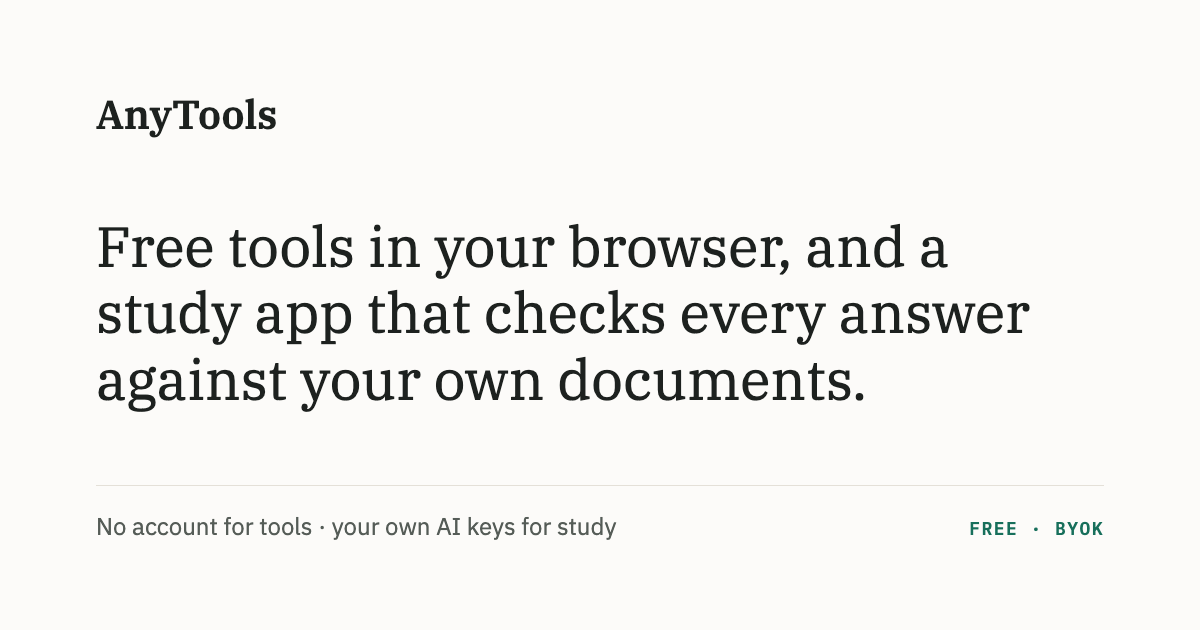
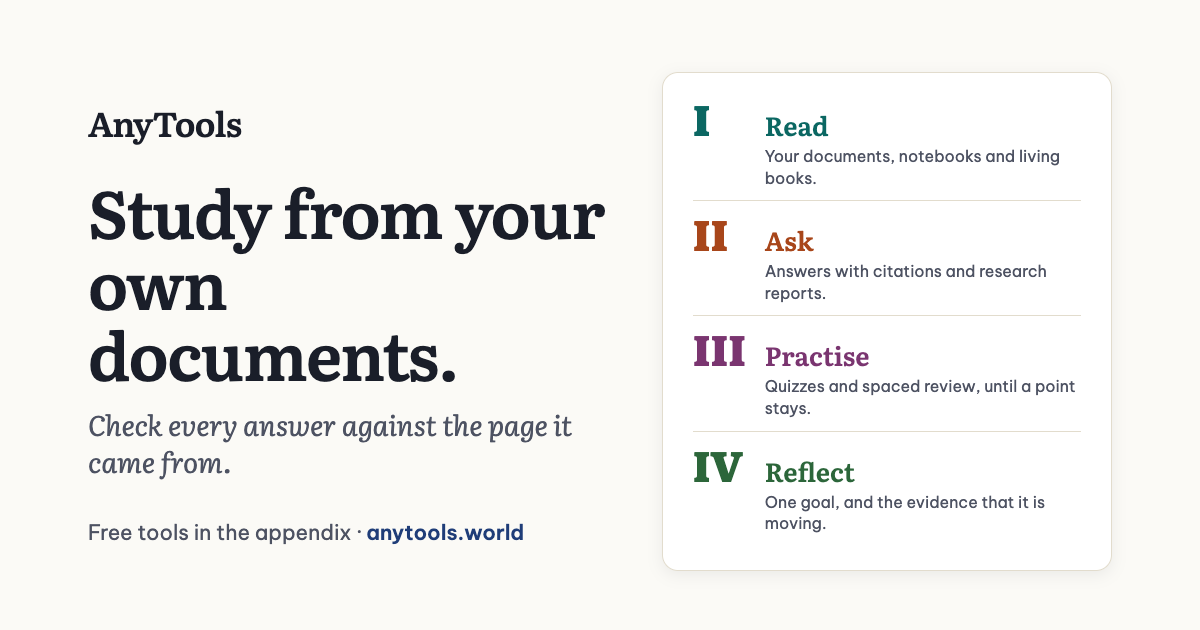
feat(web): the share card in the textbook world, versioned past the caches

diff --git a/deploy/og/og.html b/deploy/og/og.html
@@ -1,16 +1,31 @@
-<!-- Source of ui/web/public/og.png (1200x630). Regenerate: open in Chromium at a 1200x630 viewport and screenshot. Colours are the light-theme tokens from ui/web/app/tokens.css. -->
+<!-- Source of ui/web/public/og.png (1200x630). Regenerate: open in Chromium at a 1200x630 viewport and screenshot, then bump OG_VERSION in ui/web/app/lib/tools/seo.ts so caches fetch the new card. Colours are the light-theme tokens from ui/web/app/tokens.css (the textbook world, 2026-10-19). -->
 <!doctype html><html><head><meta charset="utf-8">
-<link href="https://fonts.googleapis.com/css2?family=IBM+Plex+Serif:wght@400;600&family=IBM+Plex+Sans:wght@400;500&family=IBM+Plex+Mono:wght@600&display=block" rel="stylesheet">
+<link href="https://fonts.googleapis.com/css2?family=Literata:ital,wght@0,600;0,800;1,400&family=Be+Vietnam+Pro:wght@400;600&display=block" rel="stylesheet">
 <style>
-html,body{margin:0;width:1200px;height:630px;background:#fcfbf9;color:#1d211f}
-.wrap{box-sizing:border-box;width:1200px;height:630px;padding:88px 96px;display:flex;flex-direction:column;justify-content:space-between}
-.mark{font:600 40px 'IBM Plex Serif'}
-h1{font:400 56px/1.18 'IBM Plex Serif';margin:0;max-width:960px}
-.row{display:flex;justify-content:space-between;align-items:baseline;border-top:1px solid #e4e0d8;padding-top:24px}
-.k{font:600 18px 'IBM Plex Mono';letter-spacing:.08em;text-transform:uppercase;color:#176f5b}
-.s{font:400 24px 'IBM Plex Sans';color:#555c57}
+html,body{margin:0;width:1200px;height:630px;background:#fbfaf6;color:#1a1e29}
+.wrap{box-sizing:border-box;width:1200px;height:630px;padding:72px 88px;display:grid;grid-template-columns:1.15fr 1fr;gap:56px;align-items:center}
+.mark{font:600 34px 'Literata';letter-spacing:-.02em}
+h1{font:600 66px/1.08 'Literata';letter-spacing:-.02em;margin:28px 0 0}
+.sub{font:italic 400 28px/1.3 'Literata';color:#4d5262;margin-top:18px}
+.foot{margin-top:40px;font:400 21px 'Be Vietnam Pro';color:#4d5262}
+.foot b{font-weight:600;color:#1f3d78}
+.book{background:#fff;border:1px solid #e2dccd;border-radius:16px;box-shadow:0 4px 16px rgba(26,30,41,.08);padding:24px 30px}
+.row{display:grid;grid-template-columns:72px 1fr;align-items:baseline;padding:11px 0;border-top:1px solid #e2dccd}
+.row:first-child{border-top:0;padding-top:0}
+.n{font:800 42px/1 'Literata'}
+.t{font:600 26px 'Literata'}
+.d{font:400 16px/1.35 'Be Vietnam Pro';color:#4d5262;margin-top:2px}
 </style></head><body><div class="wrap">
+<div>
 <div class="mark">AnyTools</div>
-<h1>Free tools in your browser, and a study app that checks every answer against your own documents.</h1>
-<div class="row"><span class="s">No account for tools · your own AI keys for study</span><span class="k">Free · BYOK</span></div>
+<h1>Study from your own documents.</h1>
+<div class="sub">Check every answer against the page it came from.</div>
+<div class="foot">Free tools in the appendix · <b>anytools.world</b></div>
+</div>
+<div class="book">
+<div class="row"><span class="n" style="color:#0b6762">I</span><div><div class="t" style="color:#0b6762">Read</div><div class="d">Your documents, notebooks and living books.</div></div></div>
+<div class="row"><span class="n" style="color:#a8461a">II</span><div><div class="t" style="color:#a8461a">Ask</div><div class="d">Answers with citations and research reports.</div></div></div>
+<div class="row"><span class="n" style="color:#7a3570">III</span><div><div class="t" style="color:#7a3570">Practise</div><div class="d">Quizzes and spaced review, until a point stays.</div></div></div>
+<div class="row"><span class="n" style="color:#2c663a">IV</span><div><div class="t" style="color:#2c663a">Reflect</div><div class="d">One goal, and the evidence that it is moving.</div></div></div>
+</div>
 </div></body></html>

diff --git a/ui/web/app/test/landing.test.ts b/ui/web/app/test/landing.test.ts
@@ -5,6 +5,7 @@
  * it and about nothing else.
  */
 import { beforeEach, describe, expect, it, vi } from "vitest";
+import { OG_VERSION } from "~/lib/tools/seo";
 
 vi.mock("~/lib/env.server", () => ({ APP_URL: "https://learn.example.com", API_BASE: "", API_TOKEN: "" }));
 const getUserId = vi.fn();
@@ -32,7 +33,7 @@ describe("landing", () => {
     const data = await landing.loader(args);
     const tags = landing.meta({ data } as unknown as Parameters<typeof landing.meta>[0]) as Record<string, unknown>[];
     expect(tags).toContainEqual({ tagName: "link", rel: "canonical", href: "https://learn.example.com/" });
-    expect(tags).toContainEqual({ property: "og:image", content: "https://learn.example.com/og.png" });
+    expect(tags).toContainEqual({ property: "og:image", content: `https://learn.example.com/og.png?v=${OG_VERSION}` });
     const ld = tags.find((t) => "script:ld+json" in t)?.["script:ld+json"] as Record<string, unknown>;
     expect(ld["@type"]).toBe("SoftwareApplication");
     expect(tags.some((t) => t.name === "robots")).toBe(false);

diff --git a/ui/web/app/routes/public.guide.tsx b/ui/web/app/routes/public.guide.tsx
@@ -15,7 +15,7 @@ import { localizeArticleLinks } from "~/lib/tools/links.server";
 import { pagesMessages } from "~/lib/tools/messages.server";
 import { guideLocales, loadGuide } from "~/lib/tools/pages.server";
 import { notFound, pagesT, publicLocale } from "~/lib/tools/route.server";
-import { alternateLinks, breadcrumbSchema, clampMetaDescription, MAX_TITLE_CHARS, pageMeta } from "~/lib/tools/seo";
+import { alternateLinks, breadcrumbSchema, clampMetaDescription, MAX_TITLE_CHARS, pageMeta, ogImage } from "~/lib/tools/seo";
 
 /** Guide titles are long; the brand suffix goes where it would push past what Google shows. */
 function guideTitle(title: string): string {
@@ -54,7 +54,7 @@ export function meta({ data }: Route.MetaArgs) {
       title: guideTitle(data.title),
       description: clampMetaDescription(data.description),
       url,
-      image: `${origin}/og.png`,
+      image: ogImage(origin),
       locale,
       indexable: true,
       alternateLocales: data.locales,

diff --git a/ui/web/app/test/tools-public-routes.test.ts b/ui/web/app/test/tools-public-routes.test.ts
@@ -10,6 +10,7 @@ import { mkdtempSync, mkdirSync, rmSync, symlinkSync, writeFileSync } from "node
 import { tmpdir } from "node:os";
 import { join } from "node:path";
 import { afterAll, describe, expect, it, vi } from "vitest";
+import { OG_VERSION } from "~/lib/tools/seo";
 
 vi.mock("~/lib/env.server", () => ({ APP_URL: "https://anytools.example", API_BASE: "", API_TOKEN: "" }));
 
@@ -164,7 +165,7 @@ describe("tool pages", () => {
       "pt https://anytools.example/pt/time-date/timezone-converter",
       "x-default https://anytools.example/en/time-date/timezone-converter",
     ]);
-    expect(content(tags, "property", "og:image")).toBe(`${self}/og.png`);
+    expect(content(tags, "property", "og:image")).toBe(`${self}/og.png?v=${OG_VERSION}`);
     expect(content(tags, "property", "og:locale")).toBe("vi");
     expect(content(tags, "name", "robots")).toMatch(/^index/);
     expect(ldTypes(tags)).toEqual(["SoftwareApplication", "BreadcrumbList", "FAQPage"]);

diff --git a/ui/web/app/routes/public.cluster.tsx b/ui/web/app/routes/public.cluster.tsx
@@ -12,7 +12,7 @@ import { APP_URL } from "~/lib/env.server";
 import { catalogEntries, isPopulatedCluster } from "~/lib/tools/catalog";
 import { clusterIsIndexable } from "~/lib/tools/content.server";
 import { notFound, publicLocale, toolsT } from "~/lib/tools/route.server";
-import { alternateLinks, breadcrumbSchema, buildToolTitle, clampMetaDescription, clusterPageNoun, pageMeta } from "~/lib/tools/seo";
+import { alternateLinks, breadcrumbSchema, buildToolTitle, clampMetaDescription, clusterPageNoun, pageMeta, ogImage } from "~/lib/tools/seo";
 
 export function loader({ params }: Route.LoaderArgs) {
   const locale = publicLocale(params);
@@ -51,7 +51,7 @@ export function meta({ data }: Route.MetaArgs) {
       title: seo.title,
       description: seo.description,
       url: `${origin}${path(locale)}`,
-      image: `${origin}/og.png`,
+      image: ogImage(origin),
       locale,
       indexable: data.indexable,
       alternateLocales: data.alternates,

diff --git a/ui/web/app/routes/public.page.tsx b/ui/web/app/routes/public.page.tsx
@@ -15,7 +15,7 @@ import { addPagesBundle } from "~/lib/tools/i18n";
 import { pagesMessages } from "~/lib/tools/messages.server";
 import { isStaticPage, loadPage } from "~/lib/tools/pages.server";
 import { notFound, publicLocale } from "~/lib/tools/route.server";
-import { alternateLinks, clampMetaDescription, MAX_TITLE_CHARS, pageMeta } from "~/lib/tools/seo";
+import { alternateLinks, clampMetaDescription, MAX_TITLE_CHARS, pageMeta, ogImage } from "~/lib/tools/seo";
 
 export function loader({ request, params }: Route.LoaderArgs) {
   const locale = publicLocale(params);
@@ -37,7 +37,7 @@ export function meta({ data }: Route.MetaArgs) {
       title: full.length <= MAX_TITLE_CHARS ? full : data.title,
       description: clampMetaDescription(data.description),
       url: `${origin}${path(locale)}`,
-      image: `${origin}/og.png`,
+      image: ogImage(origin),
       locale,
       indexable: true,
       alternateLocales: publicLngs,

diff --git a/ui/web/app/routes/landing.tsx b/ui/web/app/routes/landing.tsx
@@ -26,6 +26,7 @@ import { PARTS } from "~/lib/parts";
 import { SOURCE_URL } from "~/components/tools-site/public-shell";
 import { catalogEntries, CLUSTER_ORDER } from "~/lib/tools/catalog";
 import { pickPublicLocale } from "./tools";
+import { ogImage } from "~/lib/tools/seo";
 
 export async function loader({ request }: Route.LoaderArgs) {
   if (await getUserId(request)) throw redirect("/home");
@@ -63,7 +64,7 @@ export function meta({ data }: Route.MetaArgs) {
     { property: "og:title", content: TITLE },
     { property: "og:description", content: DESCRIPTION },
     { property: "og:url", content: `${url}/` },
-    { property: "og:image", content: `${url}/og.png` },
+    { property: "og:image", content: ogImage(url) },
     { property: "og:image:width", content: "1200" },
     { property: "og:image:height", content: "630" },
     { name: "twitter:card", content: "summary_large_image" },

diff --git a/ui/web/app/routes/public.guides.tsx b/ui/web/app/routes/public.guides.tsx
@@ -12,7 +12,7 @@ import { addPagesBundle } from "~/lib/tools/i18n";
 import { pagesMessages } from "~/lib/tools/messages.server";
 import { listGuides } from "~/lib/tools/pages.server";
 import { pagesT, publicLocale } from "~/lib/tools/route.server";
-import { alternateLinks, breadcrumbSchema, clampMetaDescription, pageMeta } from "~/lib/tools/seo";
+import { alternateLinks, breadcrumbSchema, clampMetaDescription, pageMeta, ogImage } from "~/lib/tools/seo";
 
 export function loader({ params }: Route.LoaderArgs) {
   const locale = publicLocale(params);
@@ -35,7 +35,7 @@ export function meta({ data }: Route.MetaArgs) {
       title: seo.title,
       description: seo.description,
       url: `${origin}${path(locale)}`,
-      image: `${origin}/og.png`,
+      image: ogImage(origin),
       locale,
       indexable: true,
       alternateLocales: publicLngs,

diff --git a/ui/web/app/routes/public.anyprofile.tsx b/ui/web/app/routes/public.anyprofile.tsx
@@ -17,7 +17,7 @@ import { ANYPROFILE_RELEASES, ANYPROFILE_REPO, downloadsFor, latestRelease } fro
 import { addPagesBundle } from "~/lib/tools/i18n";
 import { pagesMessages } from "~/lib/tools/messages.server";
 import { pagesT, publicLocale } from "~/lib/tools/route.server";
-import { alternateLinks, clampMetaDescription, pageMeta } from "~/lib/tools/seo";
+import { alternateLinks, clampMetaDescription, pageMeta, ogImage } from "~/lib/tools/seo";
 
 export async function loader({ params }: Route.LoaderArgs) {
   const locale = publicLocale(params);
@@ -43,7 +43,7 @@ export function meta({ data }: Route.MetaArgs) {
       title: seo.title,
       description: seo.description,
       url: `${origin}${path(locale)}`,
-      image: `${origin}/og.png`,
+      image: ogImage(origin),
       locale,
       indexable: true,
       alternateLocales: publicLngs,

diff --git a/ui/web/app/routes/public.home.tsx b/ui/web/app/routes/public.home.tsx
@@ -12,7 +12,7 @@ import { publicLngs } from "~/lib/i18n";
 import { APP_URL } from "~/lib/env.server";
 import { catalogEntries, POPULATED_CLUSTERS, SORTS, type Sort } from "~/lib/tools/catalog";
 import { publicLocale, toolsT } from "~/lib/tools/route.server";
-import { alternateLinks, pageMeta } from "~/lib/tools/seo";
+import { alternateLinks, pageMeta, ogImage } from "~/lib/tools/seo";
 
 /** The page has its own search box; the header leaves its one out. */
 export const handle = { ownSearch: true };
@@ -53,7 +53,7 @@ export function meta({ data }: Route.MetaArgs) {
       title: seo.title,
       description: seo.description,
       url: `${origin}${path(locale)}`,
-      image: `${origin}/og.png`,
+      image: ogImage(origin),
       locale,
       indexable: true,
       alternateLocales: publicLngs,

diff --git a/ui/web/app/lib/tools/seo.ts b/ui/web/app/lib/tools/seo.ts
@@ -10,6 +10,18 @@ import type { PublicLng } from "~/lib/i18n";
 
 /** Google cuts titles around 60 characters, and what it cuts is the brand. */
 export const MAX_TITLE_CHARS = 60;
+
+/**
+ * Bumped whenever the share cards change look. Cloudflare and the social
+ * networks cache an og:image for a day or more; a new query string is the
+ * only way a redesign reaches a link that was already shared.
+ */
+export const OG_VERSION = "20261019";
+
+/** The share card under `base`: the site's (`/og.png`) or a tool page's. */
+export function ogImage(base: string): string {
+  return `${base}/og.png?v=${OG_VERSION}`;
+}
 export const MAX_DESCRIPTION_CHARS = 155;
 const BRAND = "AnyTools";
 

diff --git a/ui/web/app/routes/public.tool.tsx b/ui/web/app/routes/public.tool.tsx
@@ -23,6 +23,7 @@ import {
   clusterSeoLabel,
   faqSchema,
   pageMeta,
+  ogImage,
   softwareAppSchema,
 } from "~/lib/tools/seo";
 import { isPorted } from "~/tools/ui-registry";
@@ -74,7 +75,7 @@ export function meta({ data }: Route.MetaArgs) {
       title: data.seoTitle,
       description: data.description,
       url,
-      image: `${url}/og.png`,
+      image: ogImage(url),
       locale,
       indexable: data.indexable,
       alternateLocales: data.alternates,
